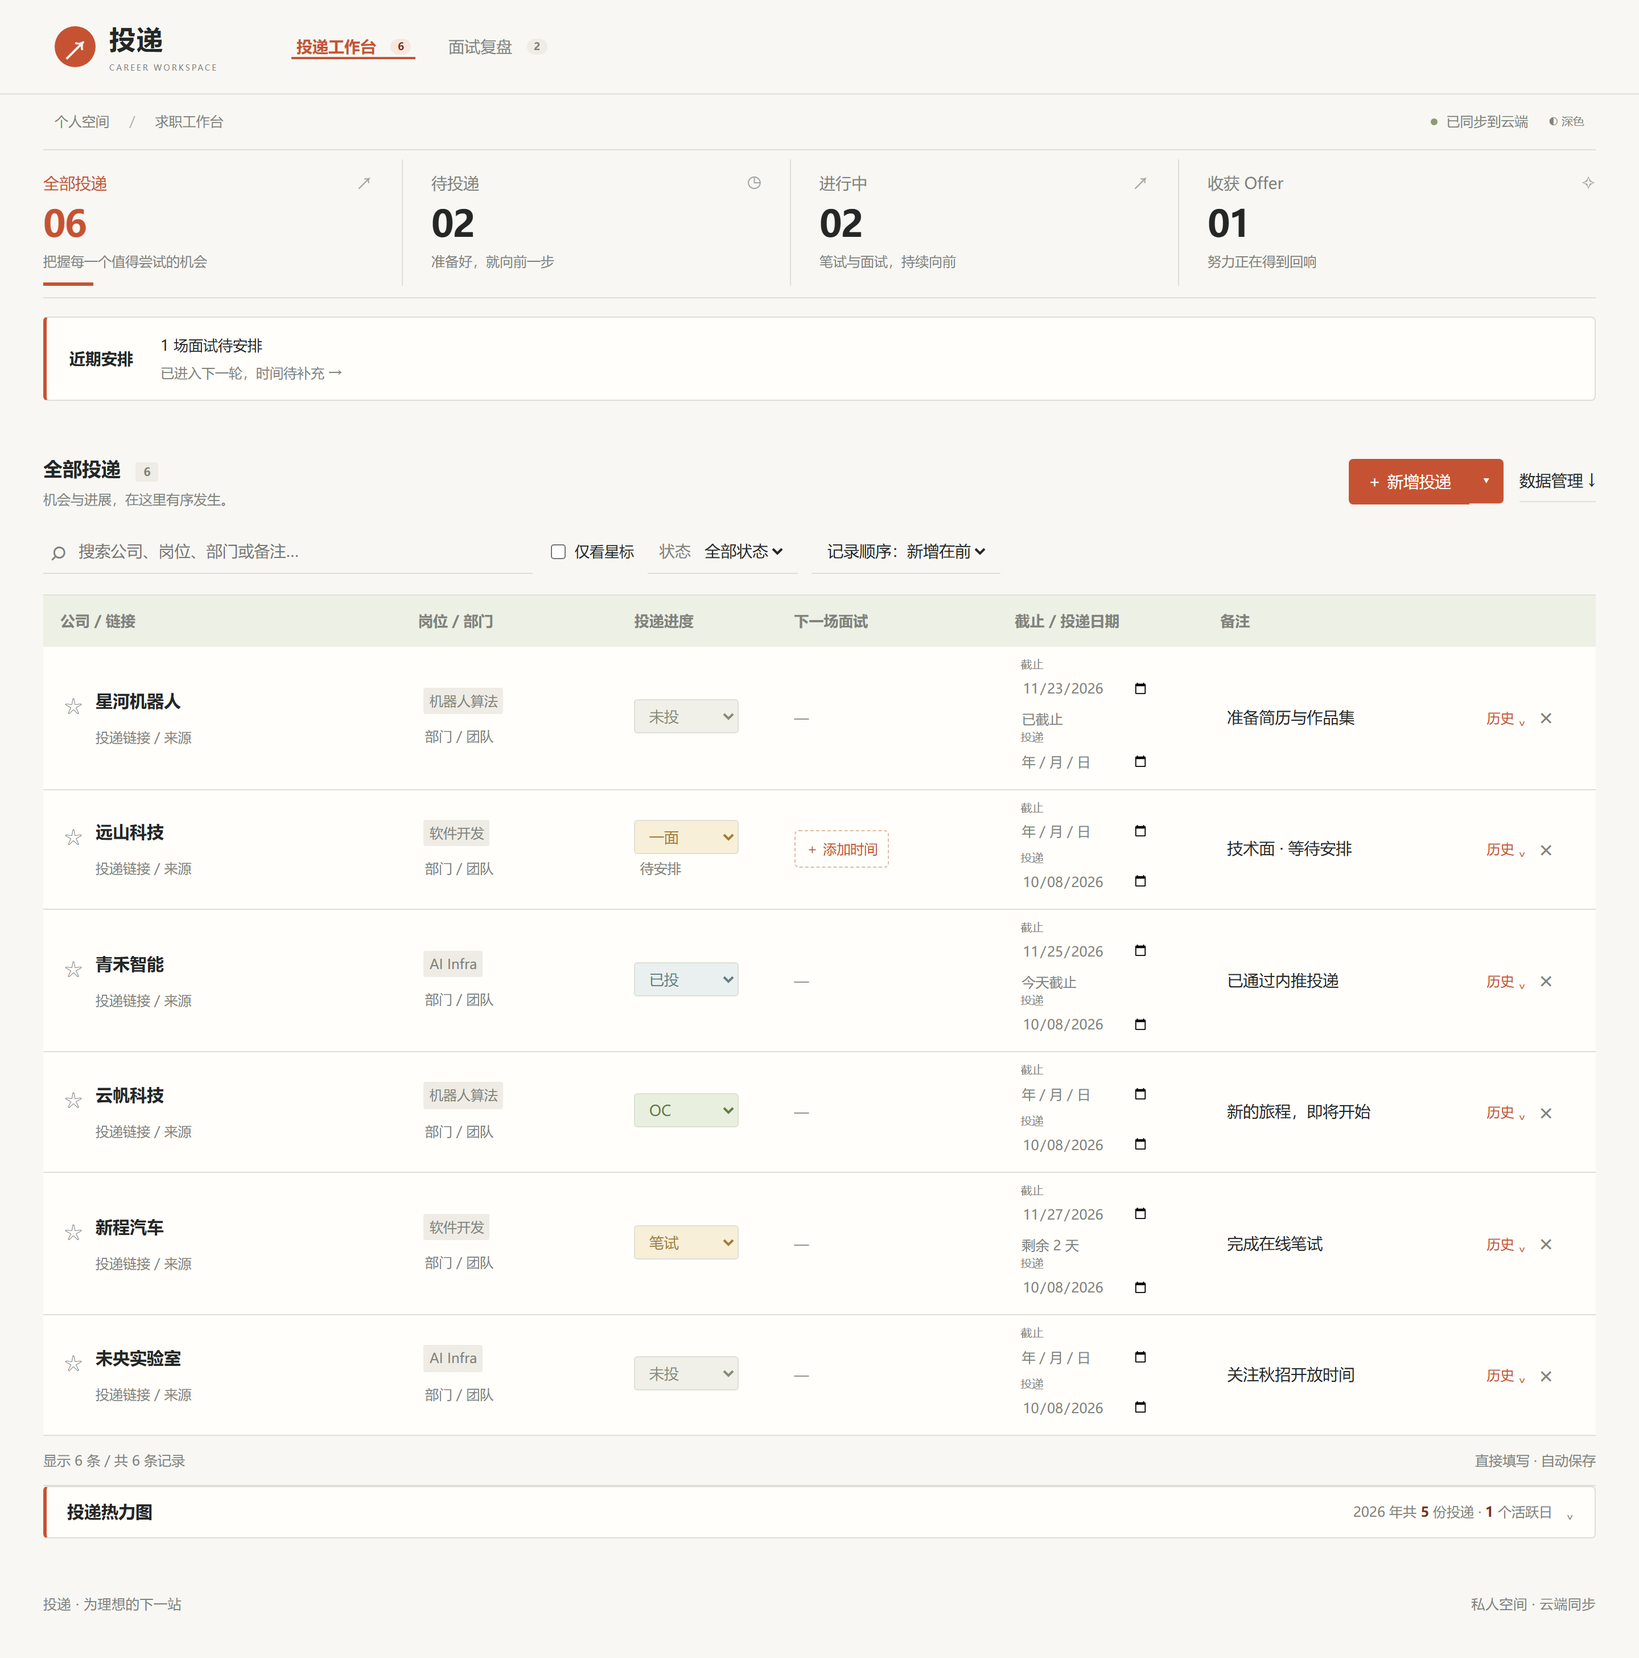
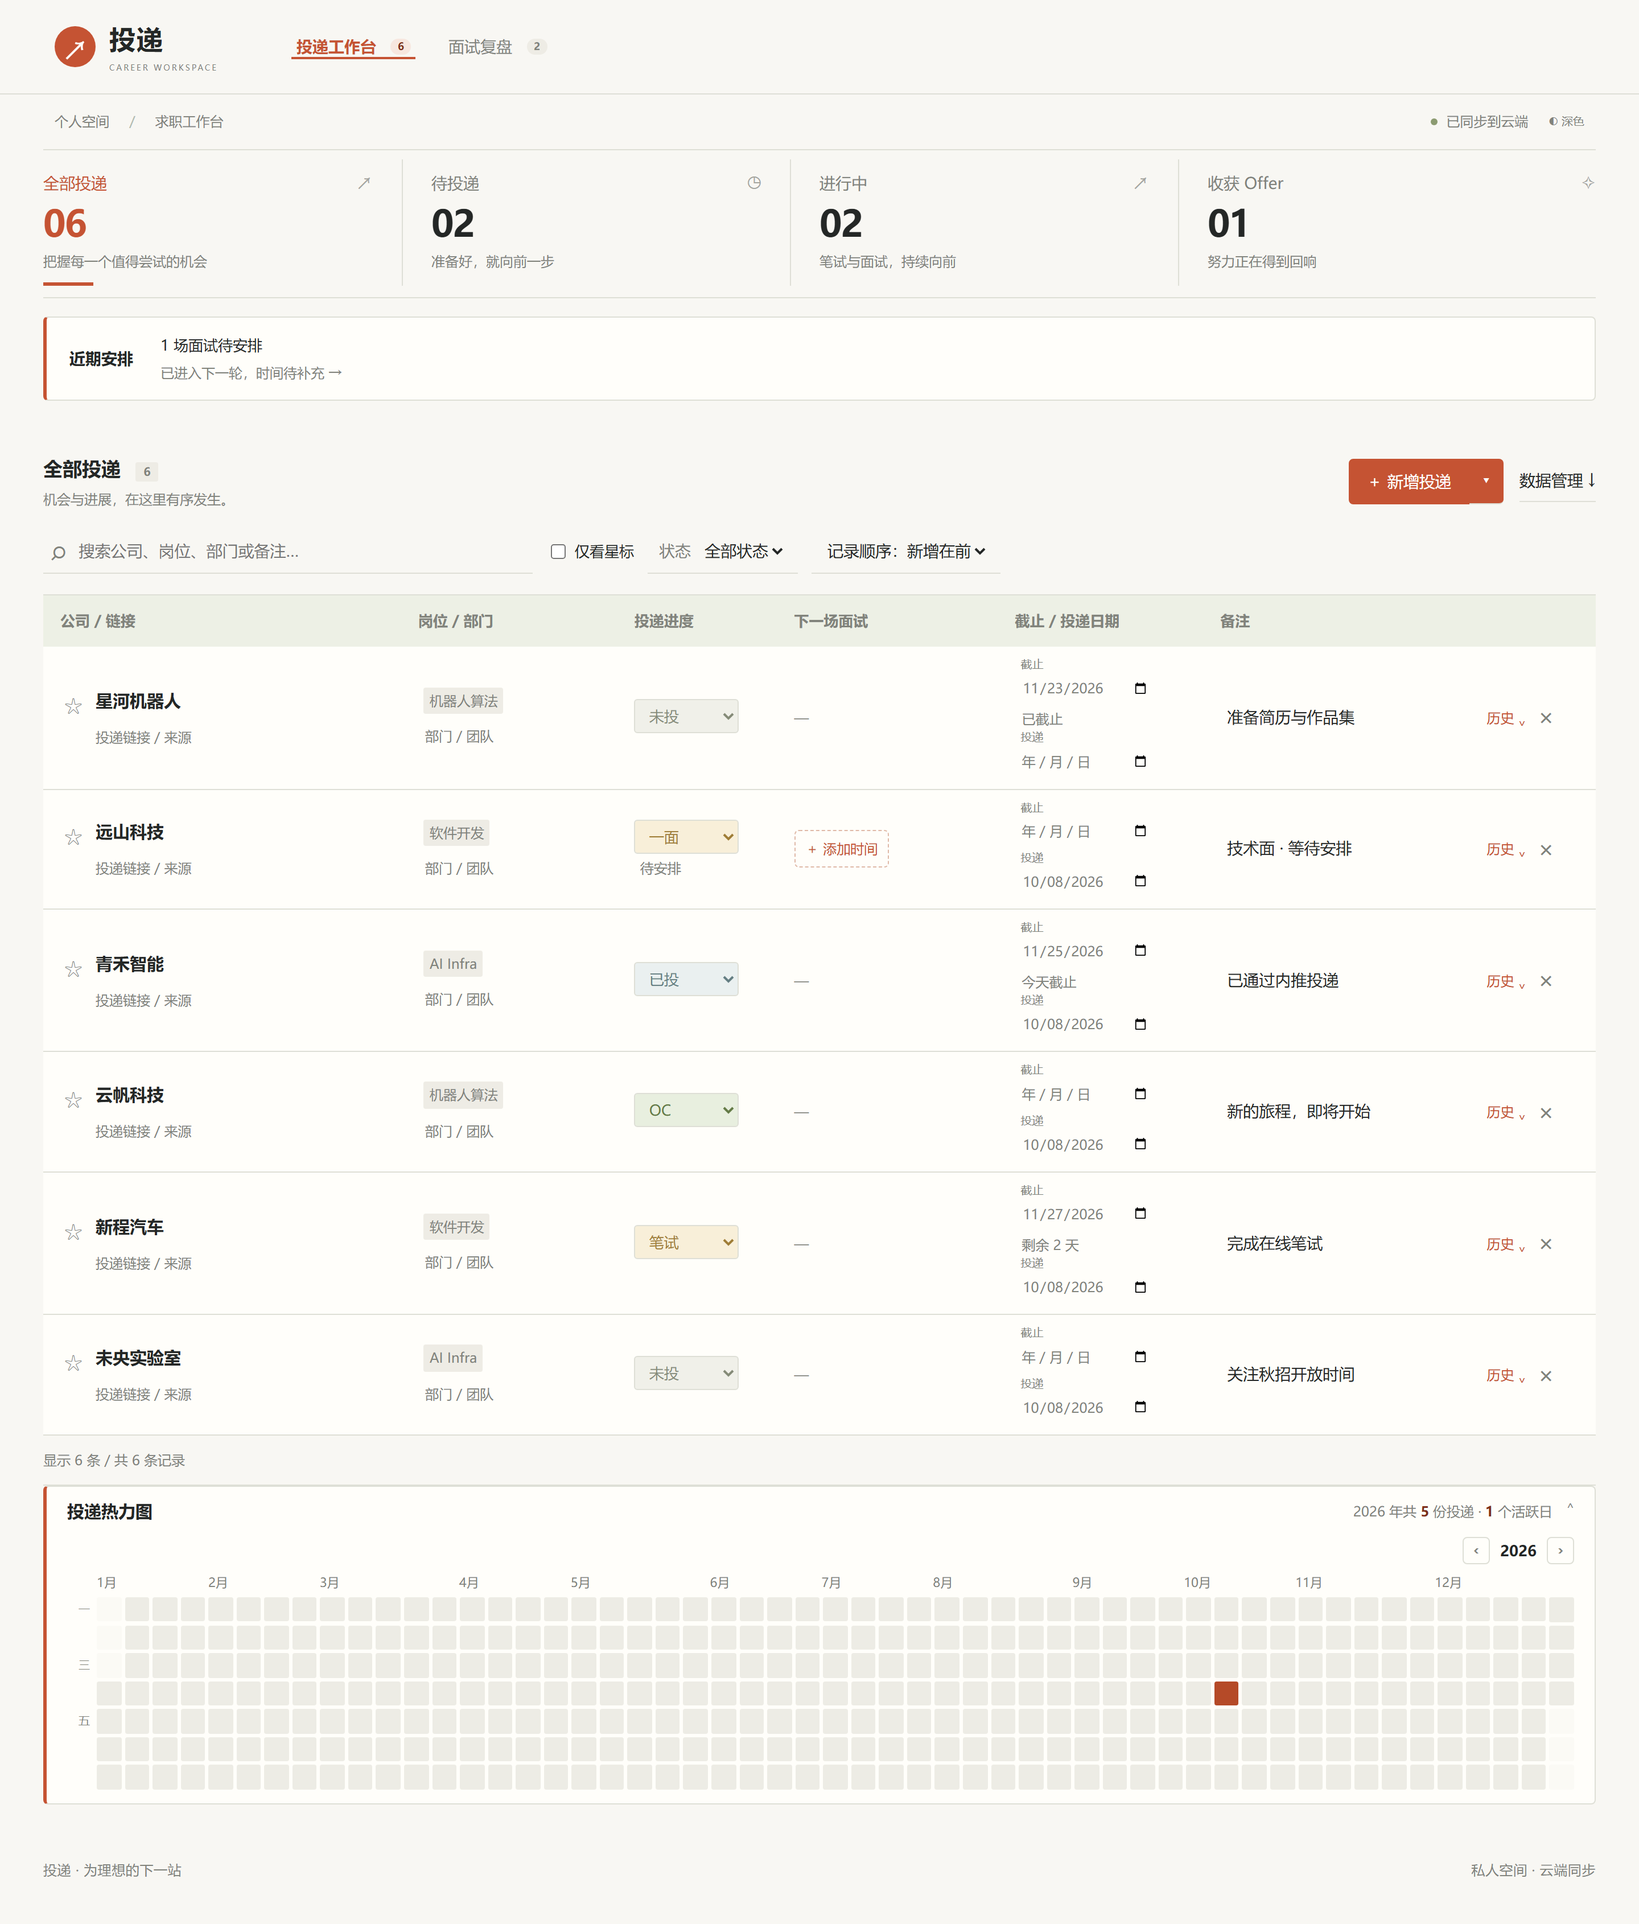
feat: expand heatmap by default and paginate the company table

diff --git a/public/app.js b/public/app.js
@@ -7,6 +7,7 @@ const emptyState = () => ({ v: 3, revision: 0, roles: [...DEFAULT_ROLES], compan
 let state = emptyState(), mode = 'loading', dirty = false, saving = false, generation = 0, timer, blocked = false, pending = null;
 let view = 'all';
 let heatmapYear = new Date().getFullYear();
+let companyPage = 0, companyPageSize = 6;
 const esc = value => String(value ?? '').replace(/[&<>"']/g, c => ({ '&': '&amp;', '<': '&lt;', '>': '&gt;', '"': '&quot;', "'": '&#39;' }[c]));
 const today = () => { const d = new Date(); return `${d.getFullYear()}-${String(d.getMonth() + 1).padStart(2, '0')}-${String(d.getDate()).padStart(2, '0')}`; };
 const days = date => date ? Math.round((Date.parse(date + 'T00:00:00') - Date.parse(today() + 'T00:00:00')) / 86400000) : null;
@@ -278,11 +279,18 @@ function sortCompanies(list, sort) {
         result.sort((a, b) => STATUSES.indexOf(b.status) - STATUSES.indexOf(a.status));
     return result;
 }
+function paginateList(list) {
+    const totalPages = companyPageSize ? Math.max(1, Math.ceil(list.length / companyPageSize)) : 1;
+    companyPage = Math.max(0, Math.min(companyPage, totalPages - 1));
+    const start = companyPageSize ? companyPage * companyPageSize : 0;
+    return { items: companyPageSize ? list.slice(start, start + companyPageSize) : list, totalPages };
+}
 function renderTable() {
     const query = $('q').value.trim().toLowerCase(), status = $('statusfilter').value;
     const list = sortCompanies(state.companies.filter(co => (!$('starfilter').checked||co.starred) && (view === 'all' || view === 'todo' && co.status === '未投' || view === 'live' && LIVE.includes(co.status) || view === 'oc' && co.status === 'OC') && (!status || co.status === status) && (!query || [co.name, co.dept, co.note, ...co.roles].join(' ').toLowerCase().includes(query))), $('sort').value);
+    const { items: pageItems, totalPages } = paginateList(list);
     $('view-title').innerHTML = ({ all: '全部投递', todo: '待投清单', live: '进行中', oc: '收获 Offer' }[view]) + ` <span>${list.length}</span>`;
-    $('rows').innerHTML = list.map(co => {
+    $('rows').innerHTML = pageItems.map(co => {
         const remaining = days(co.deadline);
         const input = (field, placeholder = '', type = 'text') => {
             const markup = `<input class="inline-input ${field === 'name' ? 'company-name' : ''}" data-field="${field}" data-id="${esc(co.id)}" aria-label="${esc(co.name || '新投递')} ${({ name: '公司名称', link: '投递链接', dept: '部门', deadline: '截止日期', appliedAt: '投递时间', note: '备注' })[field]}" type="${type}" ${type === 'date' ? 'lang="zh-CN"' : ''} value="${esc(co[field])}" placeholder="${placeholder}" maxlength="${field === 'note' ? 5000 : 2000}">`;
@@ -294,7 +302,17 @@ function renderTable() {
     $('rows').closest('table').hidden = !list.length;
     $('empty').querySelector('h3').textContent = state.companies.length ? '没有匹配的投递' : '下一份机会，从这里开始';
     $('empty').querySelector('p').textContent = state.companies.length ? '试试其他关键词，或调整筛选条件。' : '记下感兴趣的公司，让每一次投递都有迹可循。';
-    $('footcount').textContent = `显示 ${list.length} 条 / 共 ${state.companies.length} 条记录`;
+    $('footcount').textContent = companyPageSize && list.length > companyPageSize ? `第 ${companyPage + 1} / ${totalPages} 页 · 筛选出 ${list.length} 条` : `显示 ${list.length} 条 / 共 ${state.companies.length} 条记录`;
+    const pager = $('table-pager');
+    if (pager) {
+        if (!companyPageSize) {
+            pager.innerHTML = list.length > 6 ? `<button type="button" class="text-btn" data-paginate>分页显示</button>` : '';
+        } else if (totalPages > 1) {
+            pager.innerHTML = `<button type="button" class="text-btn" data-page-prev ${companyPage === 0 ? 'disabled' : ''} aria-label="上一页">‹ 上一页</button><span>${companyPage + 1} / ${totalPages}</span><button type="button" class="text-btn" data-page-next ${companyPage >= totalPages - 1 ? 'disabled' : ''} aria-label="下一页">下一页 ›</button><button type="button" class="text-btn" data-page-all>查看全部</button>`;
+        } else {
+            pager.innerHTML = '';
+        }
+    }
 }
 function statusClass(status) { return status === 'OC' ? 'oc' : LIVE.includes(status) ? 'live' : status === '已投' ? 'sent' : status === '已挂' ? 'out' : ''; }
 function dueText(date) { const n = days(date); return n === null ? '' : n < 0 ? '已截止' : n === 0 ? '今天截止' : '剩余 ' + n + ' 天'; }
@@ -311,6 +329,7 @@ function addCompany() {
     touchCompany(co);
     state.companies.unshift(co);
     view = 'all';
+    companyPage = 0;
     $('q').value = '';
     $('statusfilter').value = '';
     $('sort').value = 'added';
@@ -338,9 +357,19 @@ async function backup(data = state) {
 }
 $('add').onclick = $('empty-add').onclick = addCompany;
 document.addEventListener('click', e => {
+    const pagerButton = e.target.closest('[data-page-prev], [data-page-next], [data-page-all], [data-paginate]');
+    if (pagerButton && !pagerButton.disabled) {
+        if (pagerButton.hasAttribute('data-page-prev')) companyPage = Math.max(0, companyPage - 1);
+        if (pagerButton.hasAttribute('data-page-next')) companyPage += 1;
+        if (pagerButton.hasAttribute('data-page-all')) { companyPageSize = 0; companyPage = 0; }
+        if (pagerButton.hasAttribute('data-paginate')) { companyPageSize = 6; companyPage = 0; }
+        render();
+        return;
+    }
     const nav = e.target.closest('[data-view]');
     if (nav) {
         view = nav.dataset.view;
+        companyPage = 0;
         document.querySelectorAll('[data-view]').forEach(el => el.classList.toggle('active', el.dataset.view === view));
         $('q').value='';$('starfilter').checked=false;
         $('statusfilter').value = '';
@@ -352,6 +381,7 @@ document.addEventListener('click', e => {
         $('q').value = '';
         $('statusfilter').value = '';
         document.querySelectorAll('[data-view]').forEach(el => el.classList.toggle('active', el.dataset.view === 'all'));
+        companyPage = companyPageSize ? Math.max(0, Math.floor(sortCompanies(state.companies, 'added').findIndex(c => c.id === jump.dataset.edit) / companyPageSize)) : 0;
         render();
         const input = document.querySelector('[data-row="' + jump.dataset.edit + '"] [data-field="name"]');
         input?.focus();
@@ -450,7 +480,7 @@ $('rows').addEventListener('keydown', e => { if (e.key === 'Enter' && e.target.m
     e.target.parentElement.querySelector('button').click();
 } });
 for (const id of ['q', 'statusfilter', 'sort'])
-    $(id).addEventListener(id === 'q' ? 'input' : 'change', render);
+    $(id).addEventListener(id === 'q' ? 'input' : 'change', () => { companyPage = 0; render(); });
 $('statusfilter').insertAdjacentHTML('beforeend', STATUSES.map(s => `<option>${s}</option>`).join(''));
 $('expjson').onclick = () => backup();
 $('expcsv').onclick = () => { const cell = value => '"' + (/^[=+\-@\t\r\n]/.test(String(value)) ? "'" : '') + String(value ?? '').replace(/"/g, '""') + '"'; const rows = [['公司', '岗位', '部门', '状态', '截止日期', '投递时间', '链接', '备注'], ...state.companies.map(c => [c.name, c.roles.join(' / '), c.dept, c.status, c.deadline, c.appliedAt, c.link, c.note])]; download('投递记录-' + today() + '.csv', '\ufeff' + rows.map(r => r.map(cell).join(',')).join('\r\n'), 'text/csv;charset=utf-8'); };

diff --git a/public/index.html b/public/index.html
@@ -19,8 +19,8 @@
 
       <div class="toolbar"><label class="search"><span>⌕</span><input id="q" type="search" aria-label="搜索投递" placeholder="搜索公司、岗位、部门或备注…"></label><label class="star-filter"><input id="starfilter" type="checkbox">仅看星标</label><label class="select-wrap"><span>状态</span><select id="statusfilter" aria-label="按状态筛选"><option value="">全部状态</option></select></label><label class="select-wrap"><select id="sort" aria-label="排序"><option value="added">记录顺序：新增在前</option><option value="updated">最近编辑在前</option><option value="applied">投递时间：最新在前</option><option value="deadline">截止日期</option><option value="name">公司名称</option><option value="status">投递进度</option></select></label></div>
       <div class="tablewrap"><table><thead><tr><th>公司 / 链接</th><th>岗位 / 部门</th><th>投递进度</th><th>下一场面试</th><th>截止 / 投递日期</th><th>备注</th><th><span class="sr-only">操作</span></th></tr></thead><tbody id="rows"></tbody></table><div class="empty" id="empty" hidden><span>↗</span><h3>下一份机会，从这里开始</h3><p>记下感兴趣的公司，让每一次投递都有迹可循。</p><button class="btn primary" id="empty-add">＋ 新增投递</button></div></div>
-      <footer class="tablefoot"><span id="footcount">共 0 条记录</span><span>直接填写 · 自动保存</span></footer>
-    </section><details class="heatmap-strip" id="heatmap-details"><summary class="heatmap-head"><h2>投递热力图</h2><span id="heatmap-summary">近一年的投递节奏</span><span class="heatmap-toggle" aria-hidden="true">⌄</span></summary><div class="heatmap-open-head"><div class="heatmap-nav"><button type="button" id="heat-prev" aria-label="上一年">‹</button><span id="heatmap-year"></span><button type="button" id="heat-next" aria-label="下一年">›</button></div></div><div class="heatmap-scroll"><div class="heatmap-inner"><div class="heat-months" id="heat-months"></div><div class="heat-body"><div class="heat-weekdays" id="heat-weekdays"></div><div id="heatmap" class="heatmap" role="img" aria-label="按天统计的投递热力图"></div></div></div></div></details><section class="reviews-page" id="reviews-page" hidden></section><footer class="pagefoot"><span>投递 · 为理想的下一站</span><span id="storage-label">你的个人求职工作台</span></footer>
+      <footer class="tablefoot"><span id="footcount">共 0 条记录</span><div id="table-pager" class="table-pager" aria-label="投递列表分页"></div></footer>
+    </section><details class="heatmap-strip" id="heatmap-details" open><summary class="heatmap-head"><h2>投递热力图</h2><span id="heatmap-summary">近一年的投递节奏</span><span class="heatmap-toggle" aria-hidden="true">⌄</span></summary><div class="heatmap-open-head"><div class="heatmap-nav"><button type="button" id="heat-prev" aria-label="上一年">‹</button><span id="heatmap-year"></span><button type="button" id="heat-next" aria-label="下一年">›</button></div></div><div class="heatmap-scroll"><div class="heatmap-inner"><div class="heat-months" id="heat-months"></div><div class="heat-body"><div class="heat-weekdays" id="heat-weekdays"></div><div id="heatmap" class="heatmap" role="img" aria-label="按天统计的投递热力图"></div></div></div></div></details><section class="reviews-page" id="reviews-page" hidden></section><footer class="pagefoot"><span>投递 · 为理想的下一站</span><span id="storage-label">你的个人求职工作台</span></footer>
   </div>
 </main>
 

diff --git a/e2e/workbench.spec.js b/e2e/workbench.spec.js
@@ -12,9 +12,9 @@ test('dashboard renders stats, company table and heatmap', async ({ page }) => {
     await expect(page.locator('#rows tr[data-row]')).toHaveCount(6);
     await expect(page.locator('#view-title')).toContainText('全部投递');
 
-    // Heatmap is collapsed by default; summary is visible before expanding it.
+    // Heatmap is expanded by default and the collapsed summary carries the totals.
+    await expect(page.locator('#heatmap-details')).toHaveAttribute('open', '');
     await expect(page.locator('#heatmap-summary')).toContainText('份投递');
-    await page.locator('#heatmap-details > summary').click();
     // Heatmap: current calendar year, navigation, labels and square cells.
     await expect(page.locator('#heatmap-year')).toHaveText(String(new Date().getFullYear()));
     await expect(page.locator('#heatmap .heat-cell').first()).toBeVisible();
@@ -25,7 +25,6 @@ test('dashboard renders stats, company table and heatmap', async ({ page }) => {
 
 test('heatmap year navigation switches the displayed year', async ({ page }) => {
     const year = new Date().getFullYear();
-    await page.locator('#heatmap-details > summary').click();
     await page.locator('#heat-prev').click();
     await expect(page.locator('#heatmap-year')).toHaveText(String(year - 1));
     await expect(page.locator('#heatmap-summary')).toContainText(`${year - 1} 年共`);
@@ -33,14 +32,17 @@ test('heatmap year navigation switches the displayed year', async ({ page }) => 
     await expect(page.locator('#heatmap-year')).toHaveText(String(year));
 });
 
-test('add a company inline and it persists in the table', async ({ page }) => {
-    const before = await page.locator('#rows tr[data-row]').count();
+test('add a company inline and paginate to the next page', async ({ page }) => {
     await page.locator('#add').click();
     const nameInput = page.locator('#rows tr[data-row]').first().locator('[data-field="name"]');
     await nameInput.fill('E2E 测试公司');
     await nameInput.press('Tab'); // blur to commit value
     await expect(nameInput).toHaveValue('E2E 测试公司');
-    await expect(page.locator('#rows tr[data-row]')).toHaveCount(before + 1);
+    await expect(page.locator('#footcount')).toContainText('筛选出 7 条');
+    await expect(page.locator('#table-pager')).toContainText('1 / 2');
+    await expect(page.locator('#rows tr[data-row]')).toHaveCount(6);
+    await page.locator('[data-page-next]').click();
+    await expect(page.locator('#rows tr[data-row]')).toHaveCount(1);
 });
 
 test('search filters companies', async ({ page }) => {

diff --git a/public/workbench.js b/public/workbench.js
@@ -127,16 +127,19 @@ function renderBulkPreview() {
     $('bulk-confirm').textContent=`新增 ${count} 条`;$('bulk-confirm').disabled=!count||count>100||state.companies.length+count>2000;
 }
 function newCompany(name='') {return {id:crypto.randomUUID(),name,link:'',deadline:'',appliedAt:'',roles:[],dept:'',status:'未投',note:'',starred:false,deletedAt:0,interview:emptyInterview()};}
-function resetFilters() {view='all';$('q').value='';$('statusfilter').value='';$('starfilter').checked=false;$('sort').value='added';document.querySelectorAll('[data-view]').forEach(el=>el.classList.toggle('active',el.dataset.view==='all'));}
+function resetFilters() {view='all';companyPage=0;$('q').value='';$('statusfilter').value='';$('starfilter').checked=false;$('sort').value='added';document.querySelectorAll('[data-view]').forEach(el=>el.classList.toggle('active',el.dataset.view==='all'));}
 async function openCompany(id) {
     if(typeof switchPage==='function')switchPage('workbench',false);
-    openedCompany=id;resetFilters();render();
+    openedCompany=id;
+    resetFilters();
+    if(companyPageSize){const index=sortCompanies(state.companies,'added').findIndex(c=>c.id===id);companyPage=index>=0?Math.floor(index/companyPageSize):0;}
+    render();
     document.querySelector(`[data-row="${id}"]`)?.scrollIntoView({behavior:'smooth',block:'nearest'});
     await loadHistory(id);
 }
 function buildSnapshot() {const result=copy(state);delete result.history;delete result.restoreHistory;return result;}
 function initWorkbenchFeatures() {
-    $('starfilter').onchange=render;
+    $('starfilter').onchange=()=>{companyPage=0;render();};
     $('bulk-open').onclick=()=>{if(mode==='loading')return;document.querySelector('.add-menu').open=false;$('bulk-dialog').showModal();renderBulkPreview();$('bulk-text').focus();};
     $('bulk-text').oninput=renderBulkPreview;$('bulk-duplicates').onchange=renderBulkPreview;
     $('bulk-confirm').onclick=()=>{

diff --git a/public/editorial.css b/public/editorial.css
@@ -131,6 +131,10 @@ td{padding:9px 10px;border-color:var(--line)}
 .role-chip{background:var(--soft);color:var(--muted);font-size:9px;border-radius:2px;padding:2px 5px}
 .role-menu{border-radius:3px}
 .tablefoot{border-bottom:1px solid var(--line);padding:12px 0;font-size:9px}
+.table-pager{display:flex;align-items:center;gap:10px;font-size:12px}
+.table-pager .text-btn{padding:2px 4px;color:var(--accent-deep);white-space:nowrap}
+.table-pager .text-btn:disabled{color:var(--muted);opacity:.45;cursor:default}
+.table-pager span{color:var(--muted);font-variant-numeric:tabular-nums}
 .pagefoot{font-size:9px;letter-spacing:.3px}
 @media(min-width:1600px){.content{padding-top:5px}
 .stat{padding-top:23px;padding-bottom:23px}
